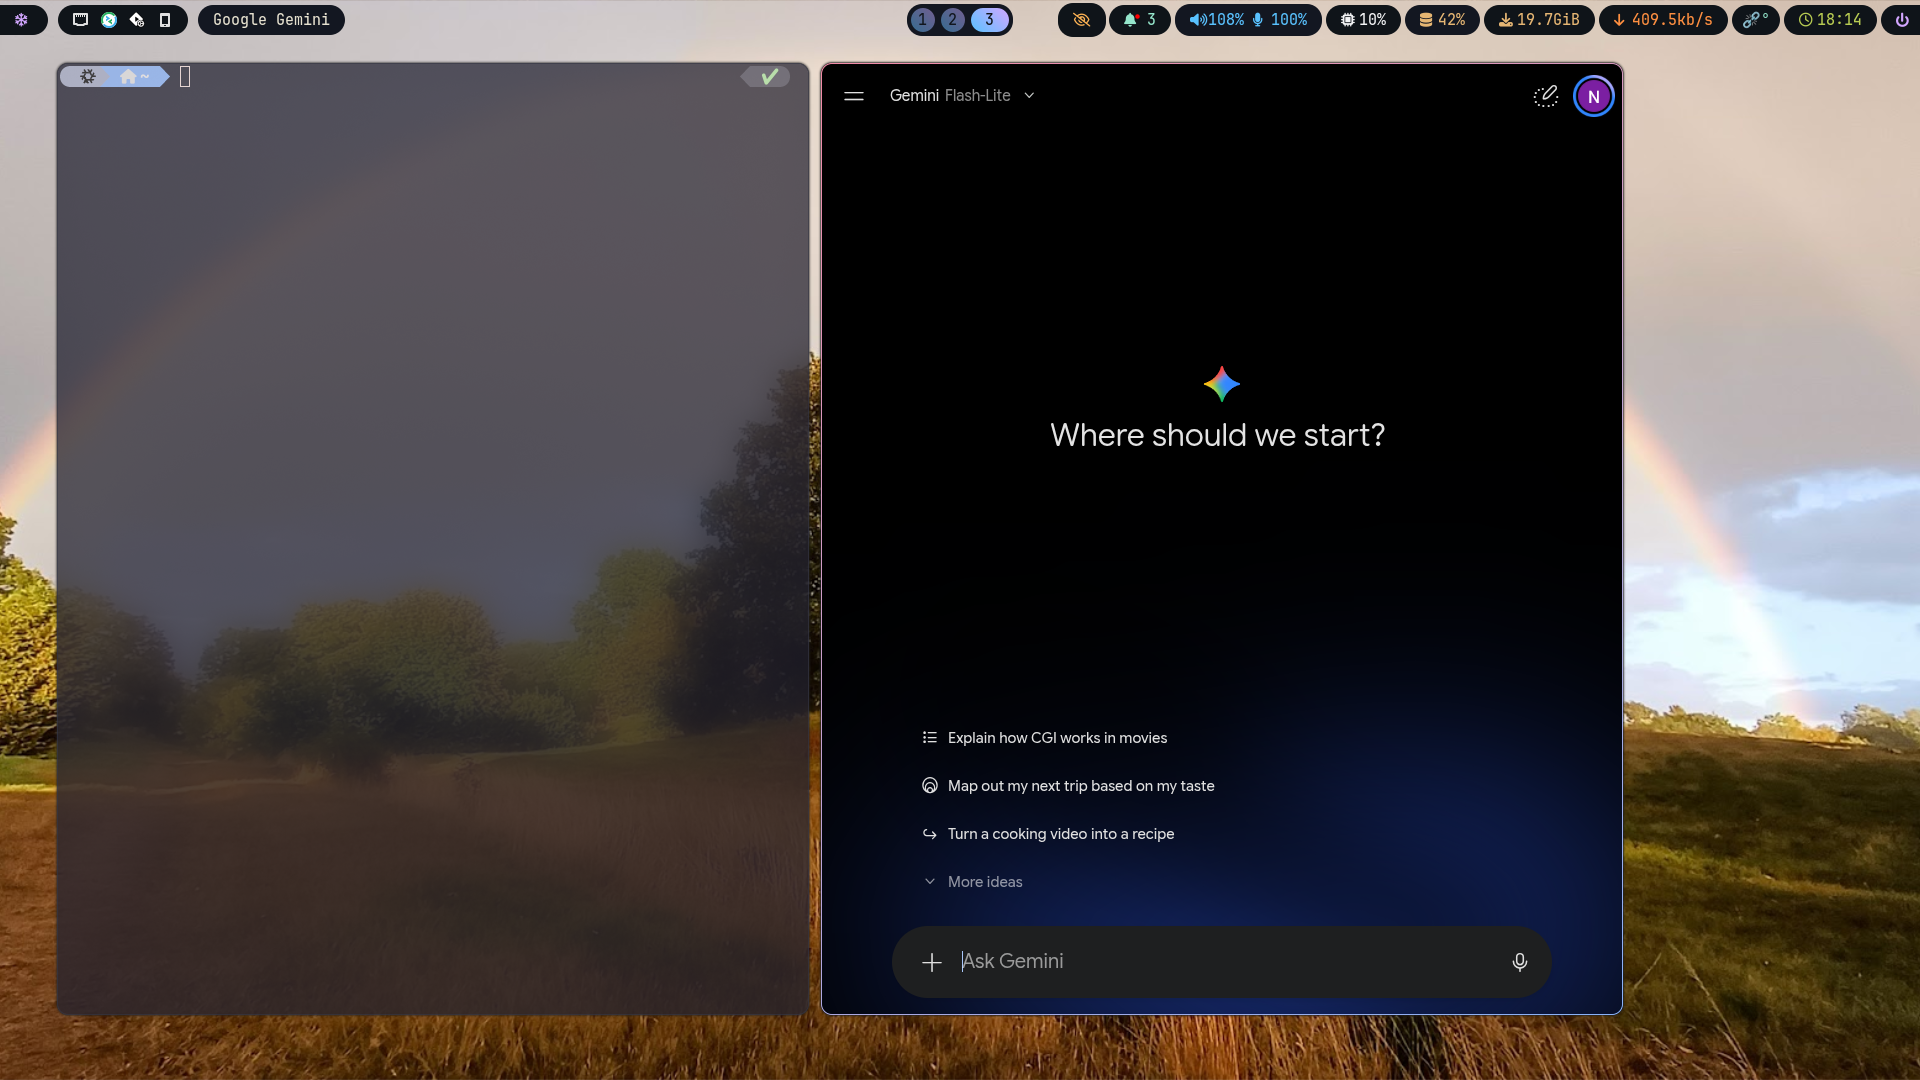
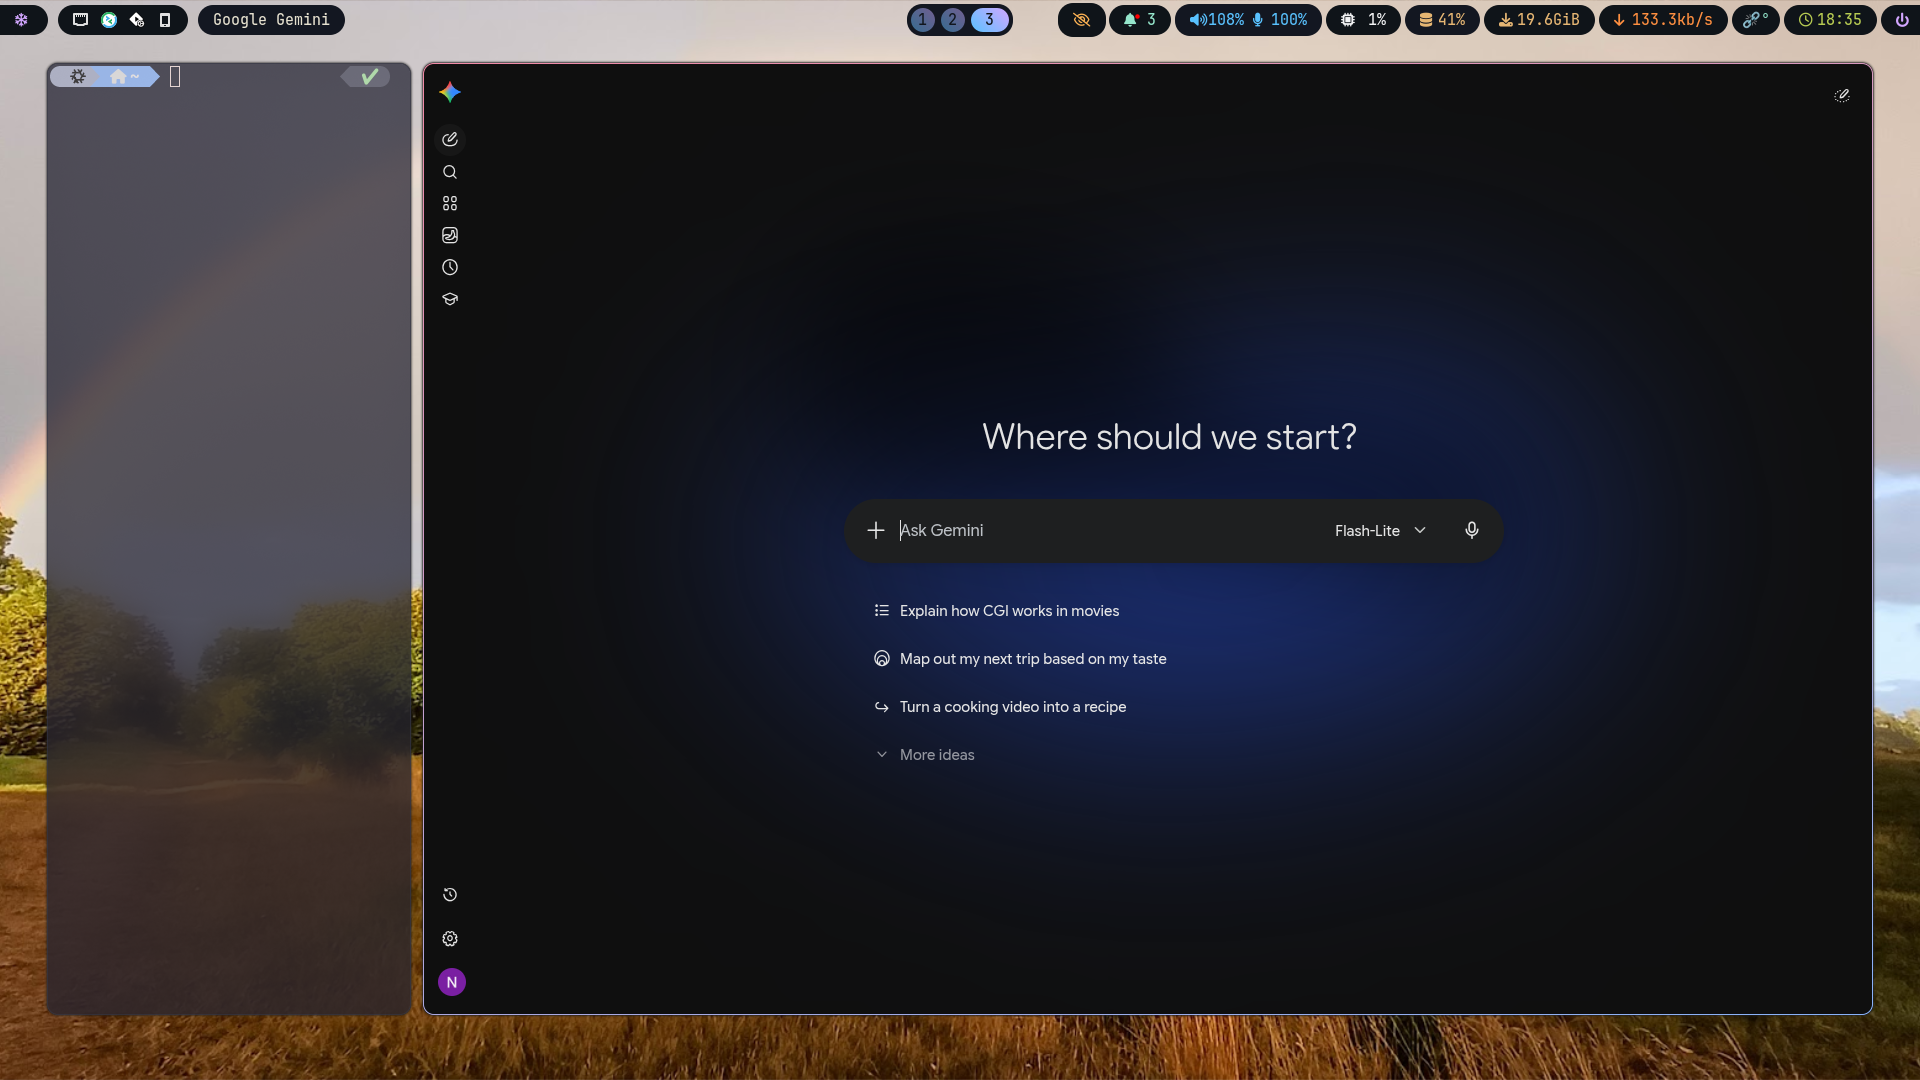
fix: adjust min/max constraints to allow true 20/80 inverted split and retake screenshot

diff --git a/README.md b/README.md
@@ -105,7 +105,7 @@ In your Home Manager configuration (e.g. `pyprland.nix`):
     command = "ghostty --class=scratchpad.ghostty"
     class = "scratchpad.ghostty"
     ratio = 0.8
-    min_width = "750px"
+    min_width = "350px"
     max_width = "1650px"
     min_height = "500px"
     max_height = "950px"
@@ -116,12 +116,12 @@ In your Home Manager configuration (e.g. `pyprland.nix`):
     initialClass = "brave-gemini.google.com__app-Default"
     ratio = 0.2
     min_width = "340px"
-    max_width = "800px"
+    max_width = "1650px"
     min_height = "600px"
     max_height = "980px"
     animation = "fromRight"
     solo_position = "right"
-    solo_width = "22%"
+    solo_width = "420px"
   '';
 
   # Recommended: Supervised systemd user service with automated stale socket cleanup
